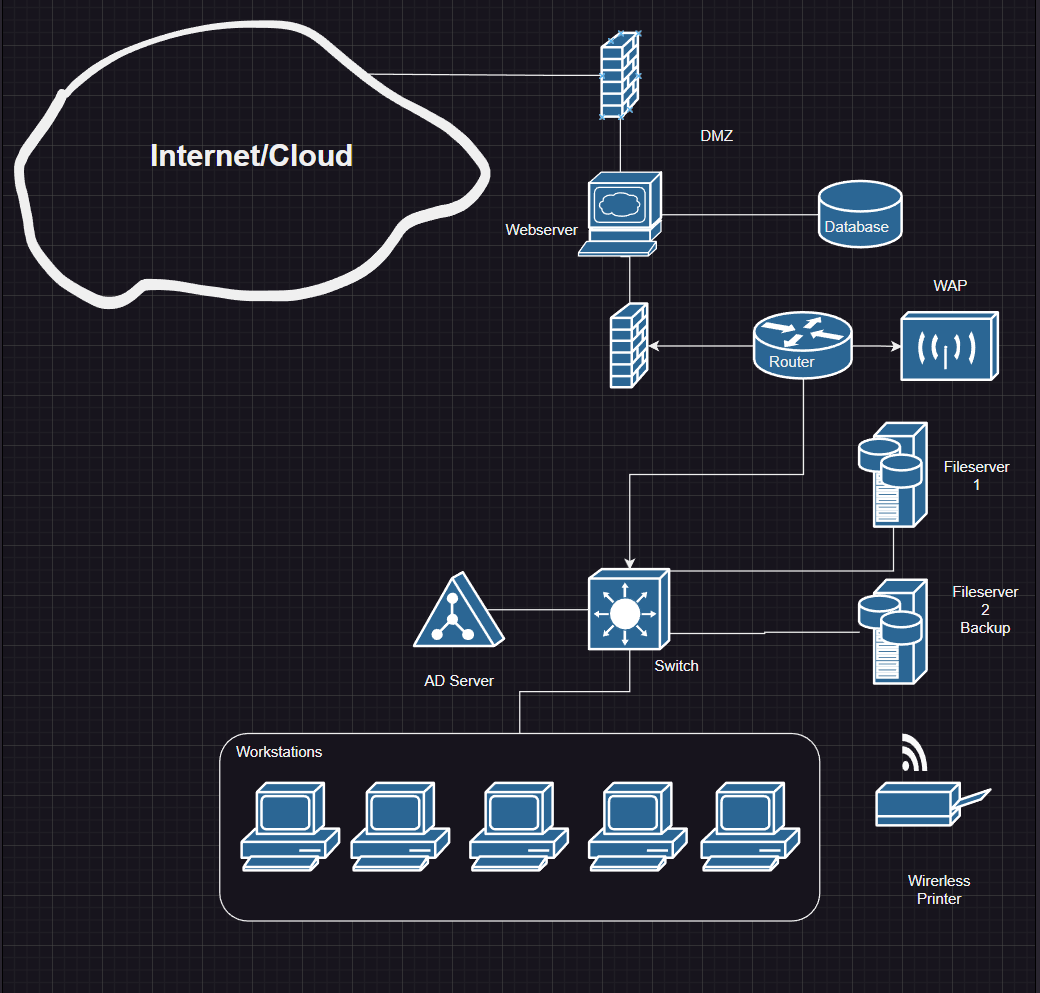
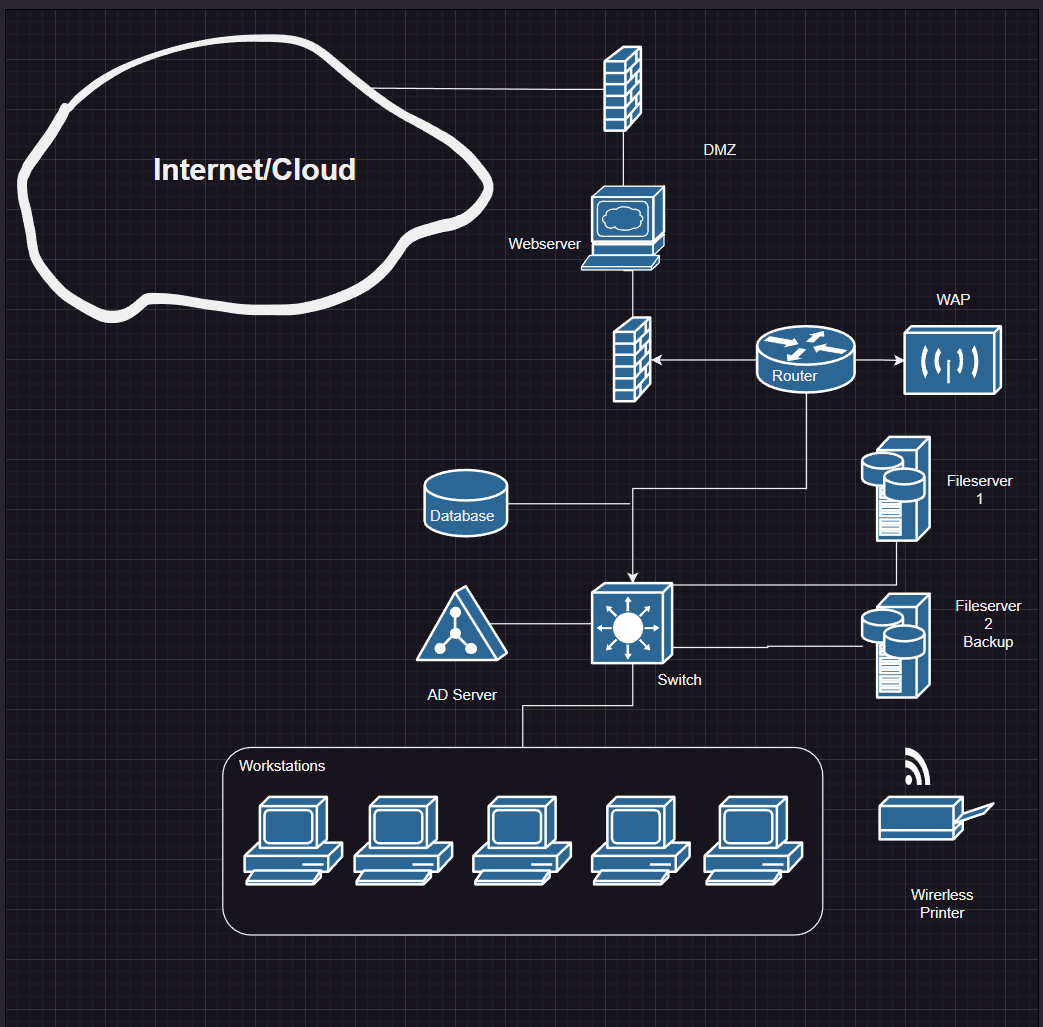
Assignment 7 done
Last part of assignment 7; fixed image

diff --git a/Networking/NTW-07.md b/Networking/NTW-07.md
@@ -18,25 +18,33 @@ Deze opdracht vraagt om het maken van een netwerkdiagram met de volgende onderde
 
 
 ## Gebruikte bronnen
-De in de opdracht gelinkte website "https://app.diagrams.net/"
+De in de opdracht gelinkte website "https://app.diagrams.net/"  
+De informatie over DMZ gebruik op https://security.stackexchange.com/questions/58167/databases-in-dmz-and-intranet
 
 ## Ervaren problemen
-
+Weinig. Het enige waar ik even over moest nadenken was of de database nu wel of niet in de DMZ thuishoort; dit heb ik opgezocht. 
 
 # Uitwerking
 
+# Het netwerk:
+
+Het netwerk bestaat uit een client-server architectuur met een ster topologie.
+Er zijn 3 servers: 1 AD server, 1 Fileserver en een backup-server. Er is een database met klantinformatie; ook deze wordt gebacküpt naar de back-up server.  
+Daarnaast is er een DMZ waarin de webserver staat. 
+
 # Het diagram:
 ![Het diagram](/00_includes/Networking_Images/diagram_assignment_7.png)
+
 
 # Waarom deze oplossing?
 
 Ik heb hierbij rekening gehouden met het geen wat de learning coach stelde; namelijk dat we uit moesten gaan van een LAN oplossing.
 
-Ik heb daarom gekozen voor een oplossing waarbij de webserver en primaire klanten database in een Demilitarized Zone staan en alle andere onderdelen binnen een enkel LAN aanwezig zijn. Dit om zowel de security hoog te houden en de kosten laag. 
+Ik heb daarom gekozen voor een oplossing waarbij de webserver in een Demilitarized Zone staan en alle andere onderdelen binnen een enkel LAN aanwezig zijn. Dit om zowel de security hoog te houden en de kosten laag. 
 
-Er is sprake van een wired en wireless network:  
-- Het wireless netwerk is er primair voor de Wireless Printer, maar ook voor Ad Hoc connecties en heeft der halve zowel een intern netwerk een guest network.
+Er is sprake van een client-server network in een ster topologie met zowel Ethernet als WiFi.  
+- Het WiFi netwerk is er primair voor de Wireless Printer, maar ook voor Ad Hoc connecties en heeft der halve zowel een intern netwerk een guest network.
 
-- Het wired network heeft een ster topologie met als hart een 24 ports switch. De fileserver in het netwerk heeft een backup server; deze backup server bevat ook de backups voor de database van de webserver.
+- Het wired networkgebruikt een 24 ports switch. De fileserver in het netwerk heeft een backup server; deze backup server bevat ook de backups voor de database van de webserver.
 
 Dit alles bij elkaar maakt voor een stevige basis waarbij zowel beveiliging als schaalbaarheid robuust zijn.
